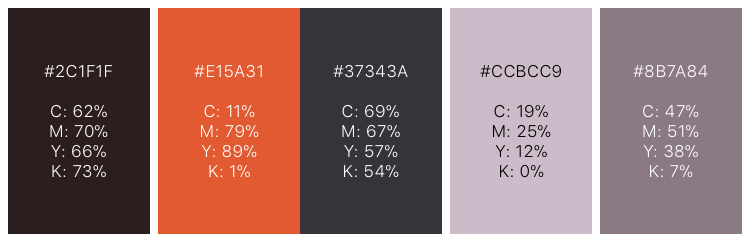
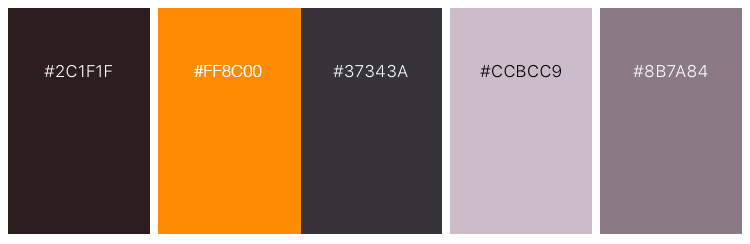
Index modificado. Se añadió sección Nosotros, así como botones nuevos. Se cambiaron algunos colores.

diff --git a/style.css b/style.css
@@ -2,7 +2,7 @@
 
 .account {
 	display: flex;
-	height: 30px;
+	height: 35px;
 	margin-top: 28px;
 	justify-content: space-between;
 }
@@ -17,7 +17,7 @@
 	display: flex;
 	padding-left: 10px;
 	padding-right: 10px;
-	background: DarkOrange;
+	background: #FF8C00;
 	align-content: flex-end;
   box-shadow: 10px 10px 5px grey;
   justify-content: space-between;
@@ -31,31 +31,37 @@
 }
 
 #login {
-	background: #37343A;
-	color: white;
-	border-radius: 10px;
+	background:#FF8C00;
+	color: rgba(255,255,255,0.7);
+	border-radius: 20px;
 	padding: 0px 10px;
 	padding-top: 2px;
+  padding-bottom: 2px;
 	margin:  0px 5px;
+  border: 2px solid #8B7A84;
 }
 
 #register {
-	background: #37343A;
-	color: white;
-	border-radius: 10px;
+	background: #FF8C00;
+	color: rgba(255,255,255,0.7);
+	border-radius: 20px;
 	padding: 0px 10px;
 	padding-top: 2px;
+  padding-bottom: 2px;
   margin:  0px 5px;
+  border: 2px solid #8B7A84;
 }
 
 #login:hover {
   box-shadow: 0px 1px 2px rgba(0,0,0,0.8);
   background: #8B7A84;
+  color: white;
 }
 
 #register:hover {
   box-shadow: 0px 1px 2px rgba(0,0,0,0.8);
   background: #8B7A84;
+  color: white;
 }
 
 .descripcion {
@@ -68,12 +74,12 @@
  }
 
 .descripcion h3 {
-  color: DarkOrange;
+  color: #FF8C00;
 }
 
-.descripcion h3:hover {
+/*.descripcion h3:hover {
   text-decoration: underline;
-}
+}*/
 
 
 .categoria {
@@ -82,7 +88,7 @@
 	padding-left: 10px;
 	padding-right: 10px;
 	padding-bottom: 15px;
-  border-bottom: 4px DarkOrange solid;
+  border-bottom: 4px #FF8C00 solid;
 }
 
 .categoria:hover {
@@ -125,7 +131,7 @@
 
 .legales {
   display: flex;
-  background: #37343A;
+  background: #2C1F1F;
   height: 80px;
   color: white;
   font-size: 13px;
@@ -198,10 +204,8 @@
   letter-spacing: 6px;
 }
 
-.bannerTC {
-  background-image: url('../ProyectoFinal/images/tcbanner.png');
-  background-size: cover;
-  height: 110px;
+.bannerContainer img {
+  width: 100%;
 }
 
 .testimonioArea {
@@ -215,6 +219,32 @@
 
 .testigoNombre {
   text-align: right;
+}
+
+.nosotrosContent {
+  display: flex;
+  flex-direction: column;
+  justify-content: center;
+  background: #37343A;
+  padding: 40px 280px;
+  color: #FF8C00;
+}
+
+.nosotrosText p {
+  color: white;
+  font-size: 15px;
+  text-align: left;
+  font-size: 20px;
+  width: 800px;
+  padding-left: 80px;
+}
+
+.nosotrosTitle {
+text-align: center;
+}
+
+h3 {
+  letter-spacing: 1px;
 }
 
 /*Estilos de Erick*/

diff --git a/index.html b/index.html
@@ -36,9 +36,12 @@
 		</div>
 	</div>
 
-	<div class="bannerTC">
-		
+	<div class="bannerContainer">
+	  <img src="images/tcbanner.png" /> 
 	</div>
+	<!-- <div class="bannerTC">
+		
+	</div> -->
 
 	<!-- Secciónes -->
 		<div class="seccion1">
@@ -102,6 +105,21 @@
 	</div>
 </div>
 
+<!-- Nosotros -->
+
+<center>
+	<div class="nosotrosContent">
+	<div class="nosotrosTitle"><h3>NOSOTROS</h3></div>
+	<div class="nosotrosText">
+		<p>Echame la Mano es un mercado de servicios para individuos, hogares, automóviles y empresas en México.</p>
+		<p>Echame la Mano proporciona una plataforma que permite a los usuarios publicar tareas y las conecta con proveedores de servicios relevantes, ofreciendo precios transparentes, verificación de identidad y mecanismos de pago para la comodidad y seguridad de todas las partes involucradas en la transacción.</p>
+		<p>Echame la Mano es una empresa 100% mexicana creada por jóvenes emprendedores, por lo que, cuando usas la aplicación beneficias la economía del país y ayudas a generar y mantener empleos bien remunerados en México.</p>
+		<p>Echame la Mano fue fundada en Marzo de 2018.</p>
+	</div>
+</div>
+</center>
+
+
 <!-- Barra de legales -->
 <div class="legales container-fluid">
 	<div class="col-md-5 info1">
@@ -114,7 +132,7 @@
 			<img id="legal-logo" src="images/logo-blanco.png">
 	</div>
 	<div class="col-md-5 info2">
-		<div class="legal-link">Nosotros</div>
+		<!-- <div class="legal-link">Nosotros</div> -->
 		<div class="legal-link">Blog</div>
 		<div class="legal-link">Legales</div>
 		<div class="legal-link">Socios</div>
